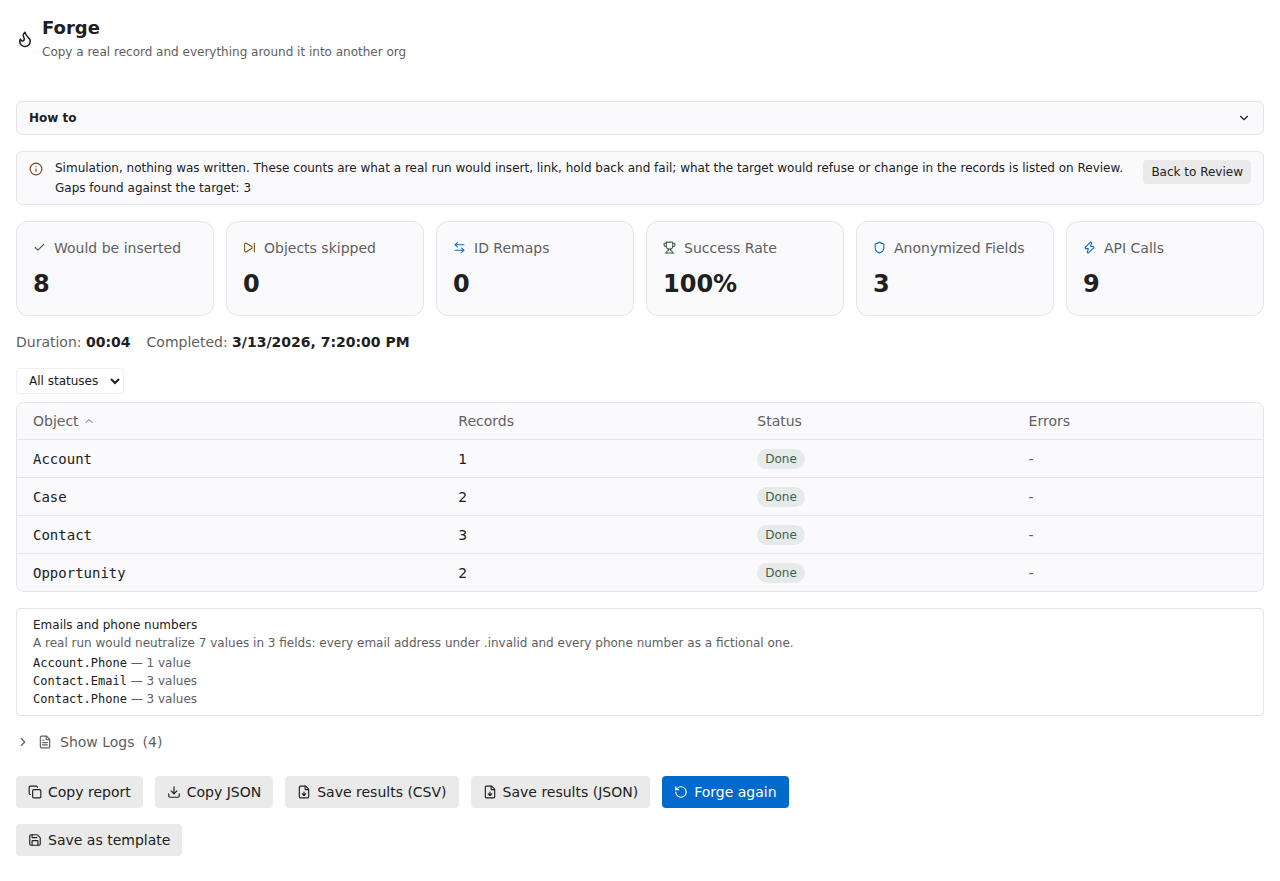
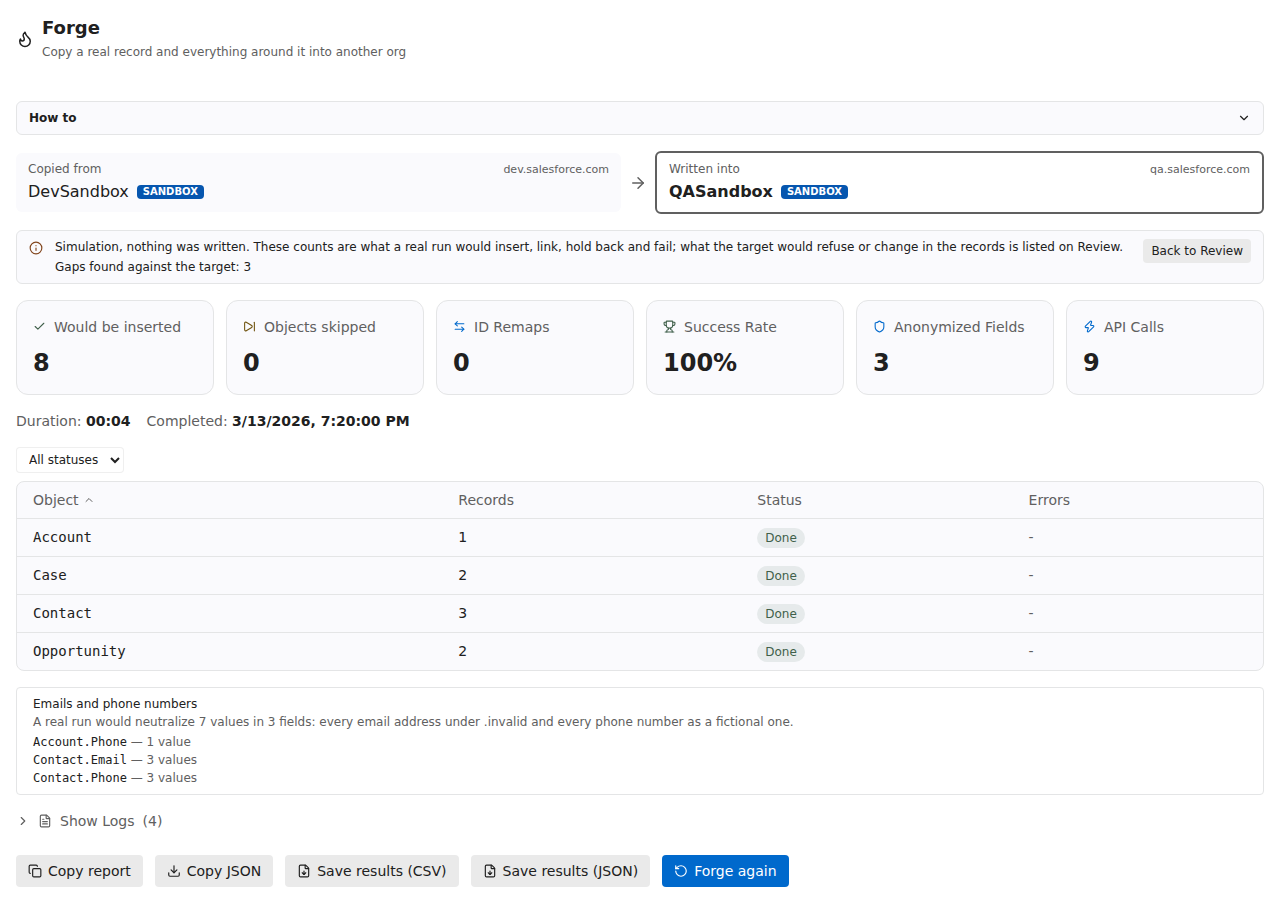
docs: the Marketplace captures show the new review, its plan read, and the org ribbon

diff --git a/packages/webview/e2e/screenshots.spec.ts b/packages/webview/e2e/screenshots.spec.ts
@@ -913,6 +913,13 @@ async function answerReviewReads(
   opening: number,
 ): Promise<void> {
   await waitForRequests(page, 'forge:gaps:request', opening);
+  // The plan the extension makes of the graph, or the Plan row reads
+  // "Working…" in every shot of the review.
+  await sendExtensionMessage(page, {
+    type: 'forge:plan:response',
+    id: `plan-${opening}`,
+    payload: { plan: REVIEW_PLAN },
+  });
   await respondToAll(page, 'forge:metadata-diff:request', 'forge:metadata-diff:response', {
     diffs: [],
   });
@@ -923,6 +930,23 @@ async function answerReviewReads(
     gaps: MOCK_FORGE_METADATA_GAPS,
   });
 }
+
+/** The plan of the review's graph: 8 records of 4 objects, in two waves. */
+const REVIEW_PLAN = {
+  waves: [
+    { order: 0, objectApiNames: ['Account'], estimatedApiCalls: 1, estimatedDurationSeconds: 0.5 },
+    {
+      order: 1,
+      objectApiNames: ['Contact', 'Opportunity', 'Case'],
+      estimatedApiCalls: 3,
+      estimatedDurationSeconds: 1.5,
+    },
+  ],
+  totalRecords: 8,
+  totalApiCalls: 4,
+  estimatedDurationSeconds: 2,
+  cycleResolutions: [],
+};
 
 /** Have the extension say each object of the graph is done: the results table reads its status. */
 async function finishEveryObject(
